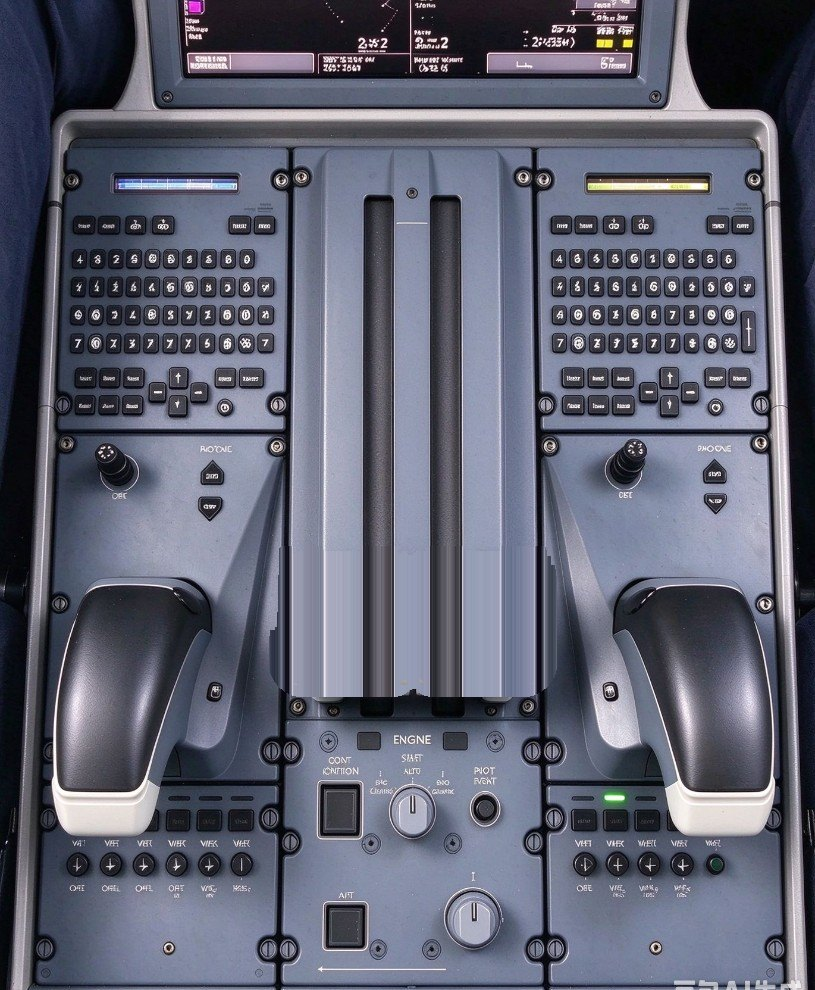
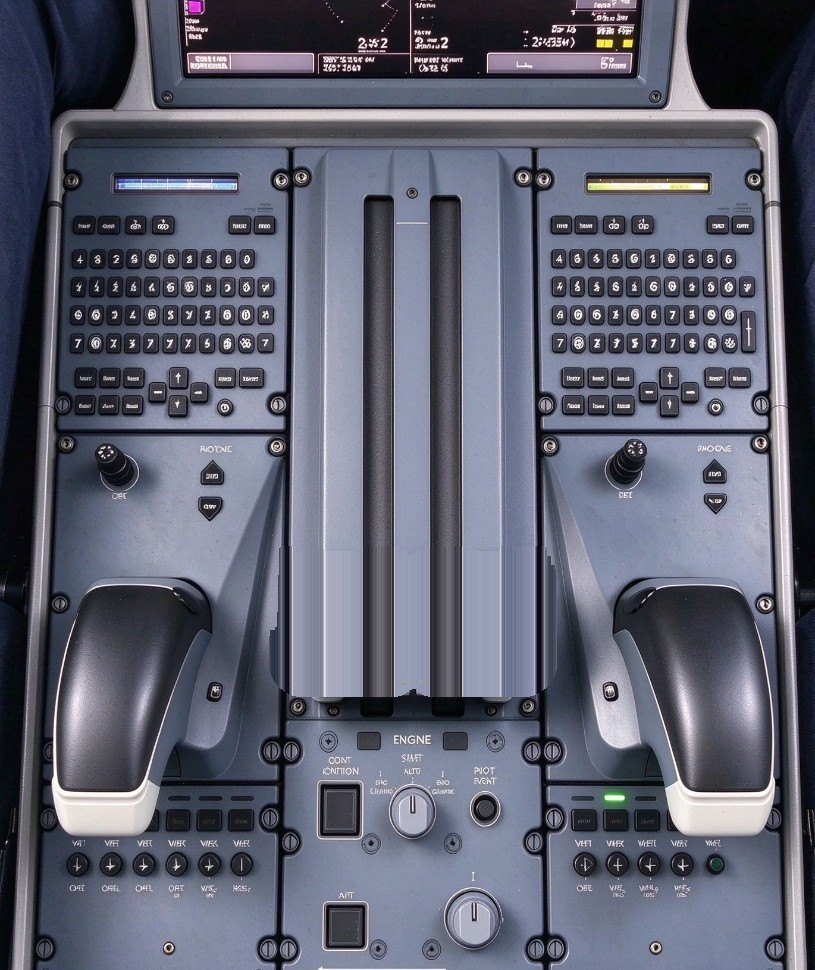
fix: 去掉 C172 徽章白底和油门水印，并更新首页副标题

Changed region(s): [[0.0, 0.0, 1.0, 1.0], [0.4294, 0.1856, 0.5828, 0.2474]]

diff --git a/src/components/ThrottleLever.tsx b/src/components/ThrottleLever.tsx
@@ -1,8 +1,8 @@
 import { useRef, useState } from 'react';
 import { audioManager } from '@/lib/audio';
 
-/** 推杆行程占底座图高度的比例（源图握把顶 y=556 → 轨道顶 ~200，990 高） */
-const TRAVEL_RATIO = 0.36;
+/** 推杆行程占底座图高度的比例（源图握把顶 y=556 → 轨道顶 ~200，970 高） */
+const TRAVEL_RATIO = 0.367;
 /** 推过 90% 即视为起飞：真实手指很难精确停在 100% */
 const COMPLETE_THRESHOLD = 0.9;
 /** 每 10% 一个机械档位，跨档时给段落感反馈 */

diff --git a/src/pages/StartPage.tsx b/src/pages/StartPage.tsx
@@ -72,7 +72,7 @@ export function StartPage() {
         <img className="start-mark" src="/assets/logo-mark.png" alt="" />
         <h1 className="start-title-cn">时光机长</h1>
         <div className="start-title-en">TIME PILOT</div>
-        <p className="page-subtitle">今晚的航程，从这里开始</p>
+        <p className="page-subtitle">选择一段专注的时间，规划你的航程</p>
       </div>
 
       <div className="card">

diff --git a/src/styles/global.css b/src/styles/global.css
@@ -749,8 +749,8 @@ button {
 
 .throttle-stage {
   position: relative;
-  width: min(100%, calc((100dvh - 220px) * 815 / 990), 420px);
-  aspect-ratio: 815 / 990;
+  width: min(100%, calc((100dvh - 220px) * 815 / 970), 420px);
+  aspect-ratio: 815 / 970;
   touch-action: none;
   cursor: grab;
   user-select: none;

diff --git a/scripts/cut-throttle.py b/scripts/cut-throttle.py
@@ -8,8 +8,8 @@ from PIL import Image, ImageFilter
 SRC = "UI Design/assets/throttle-pedestal-source.jpg"
 OUT_LEVER = "public/assets/throttle/lever.png"
 
-# Crop off the 豆包 watermark along the bottom edge
-CROP_BOTTOM = 990
+# Crop off the 豆包 watermark along the bottom edge (glyphs start ~y=981)
+CROP_BOTTOM = 970
 
 # Two A/T DISC knobs (rounded rectangles), source coordinates before crop
 KNOBS = [
